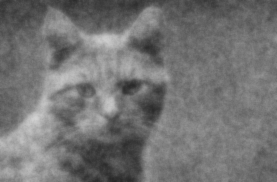
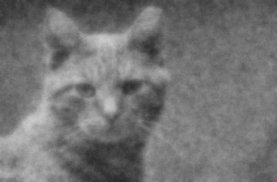
Add readme

diff --git a/main.py b/main.py
@@ -19,7 +19,7 @@ def main():
     show_image(noisy_image, title="Imagen Ruidosa")
 
     # Reducir el ruido utilizando inversión regularizada
-    denoised_image = denoise_image(noisy_image, lambda_param=5.0)
+    denoised_image = denoise_image(noisy_image, lambda_param=6.0)
 
     # Guardar la imagen denoised
     denoised_image_path = "data/cat_denoised.png"

diff --git a/Readme.md b/Readme.md
@@ -1,0 +1,93 @@
+# Image Denoising Project README
+
+## **Introduction**
+This project focuses on image denoising using numerical optimization techniques. The method leverages sparse matrices and a regularized inversion approach to minimize noise in grayscale images. Additionally, the project includes tools for noise evaluation using metrics such as Peak Signal-to-Noise Ratio (PSNR) and Structural Similarity Index (SSIM).
+
+## **How It Works**
+The process involves the following key steps:
+
+1. **Adding Noise to an Image**: Gaussian noise is artificially introduced to simulate noisy images.
+2. **Noise Reduction (Denoising)**:
+   - A regularization-based approach is used to solve a sparse system of linear equations.
+   - Horizontal and vertical difference matrices are constructed to enforce smoothness in the image.
+   - A conjugate gradient solver (`scipy.sparse.linalg.cg`) efficiently computes the denoised image.
+3. **Quality Evaluation**: Metrics like PSNR and SSIM are used to compare the original and denoised images, providing objective measures of the denoising performance.
+
+## **Theoretical Background**
+1. **Noise in Images**:
+   - Digital images often suffer from noise due to various factors like sensor imperfections, low light, or transmission errors.
+   - Gaussian noise, characterized by its bell-curve distribution, is a common type of noise.
+
+2. **Regularized Denoising**:
+   - Denoising is formulated as an optimization problem:
+     \[
+     \text{minimize} \quad \| I_{\text{noisy}} - I_{\text{denoised}} \|^2 + \lambda \| D_h I + D_v I \|^2
+     \]
+     where \( I_{\text{noisy}} \) is the noisy image, \( D_h \) and \( D_v \) are horizontal and vertical difference matrices, and \( \lambda \) is the regularization parameter.
+
+3. **Sparse Matrices**:
+   - Sparse matrices efficiently represent operations like finite differences, reducing memory usage and computational cost.
+
+4. **Conjugate Gradient Solver**:
+   - The optimization problem results in a large linear system. The conjugate gradient method provides an iterative solution.
+
+## **Features**
+- **Noise Simulation**: Adds Gaussian noise to any input grayscale image.
+- **Denoising Algorithm**: Implements regularized noise reduction using sparse matrix operations.
+- **Performance Metrics**: Computes PSNR and SSIM for objective evaluation.
+- **Visualization Tools**: Displays original, noisy, and denoised images for visual comparison.
+
+## **Dependencies**
+- Python 3.x
+- OpenCV (`opencv-python`)
+- SciPy (`scipy`)
+- NumPy (`numpy`)
+- Scikit-image (`scikit-image`)
+- Matplotlib (`matplotlib`)
+
+Install dependencies using (or install the requirements from `requirements.txt`):
+```bash
+pip install opencv-python scipy numpy scikit-image matplotlib
+```
+
+## **Usage**
+1. Clone the repository:
+   ```bash
+   git clone https://github.com/Electromayonaise/image-denoising
+   cd image-denoising
+   ```
+
+2. Prepare an input image (grayscale, e.g., `cat.png`) and place it in the `data/` directory.
+
+3. Run the main script:
+   ```bash
+   python main.py
+   ```
+
+4. Outputs:
+   - `cat_noisy.png`: Image with added Gaussian noise.
+   - `cat_denoised.png`: Image after denoising.
+
+## **Example**
+### **Original Image**
+![Original Image](data/cat.png)
+
+### **Noisy Image**
+![Noisy Image](data/cat_noisy.png)
+
+### **Denoised Image**
+![Denoised Image](data/cat_denoised.png)
+
+### **Performance**
+- **PSNR**: Measures how much the denoised image resembles the original.
+- **SSIM**: Evaluates perceived structural similarity.
+
+Example Output:
+```
+PSNR: 30.25, SSIM: 0.85
+```
+
+## **Customization**
+- Adjust `lambda_param` in `denoise_image` to control the regularization strength.
+- Modify `noise_factor` in `add_noise` to simulate different levels of noise.
+
